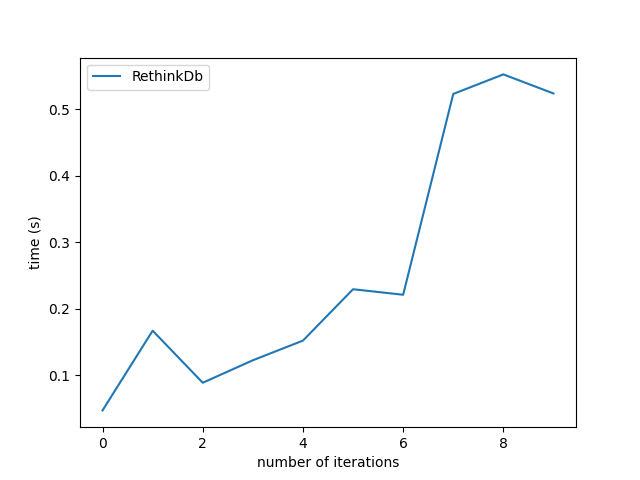
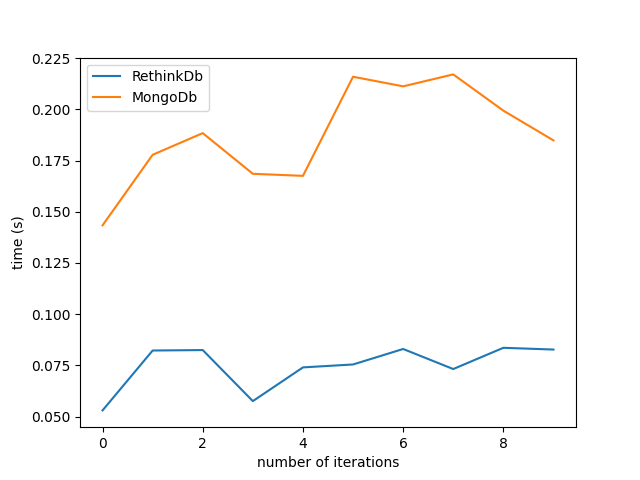
add copy table tests for mongo

diff --git a/efficiency-tests/main.py b/efficiency-tests/main.py
@@ -35,7 +35,7 @@ def get_average_time(data_series: list):
 if __name__ == '__main__':
 
     iterations_num = 100
-    tests = [('search_row_by_value_10_times', True)]
+    tests = [('copy_table', True)]
     # [('inserts', True), ('read_write', True), ('sorting', True), ('join_table', True),
     # ('search_row_by_id_10_times', True), ('search_row_by_value_10_times', True), ('copy_table', True)]
 
@@ -46,6 +46,10 @@ if __name__ == '__main__':
     # search_row_by_value_10_times for iterations_num = 100
     # MongoDb average operation time: 0.00012311697006225586
     # RethinkDb average operation time: 0.00018972158432006836
+
+    # copy_table for iterations_num = 100
+    # MongoDb average operation time: 0.018484854698181154
+    # RethinkDb average operation time: 0.007321906089782715
 
     for test_name, recreate_collection in tests:
         test_func_name = f'test_{test_name}_efficiency'

diff --git a/efficiency-tests/mongodb_test.py b/efficiency-tests/mongodb_test.py
@@ -137,5 +137,26 @@ class MongoTest:
 
         print('test finished')
 
+    def test_copy_table_efficiency(self, iterations_num: int):
+        idx = 0
+        mod = iterations_num / min(10, iterations_num)
+
+        self.db.table_to_copy.drop()
+        self.db.source.drop()
+
+        print('test started')
+
+        while idx < iterations_num:
+            self.db.source.insert_one({'value': idx})
+            if idx % mod == 0:
+                start = time.time()
+                self.db.table_to_copy.insert_many(self.db.source.find())
+                end = time.time()
+                self.db.copy_table.insert_one({'id': idx, 'time': end - start})
+                self.db.table_to_copy.drop()
+            idx += 1
+
+        print('test finished')
+
     def get_results(self, schema: str) -> list:
         return list(self.db[schema].find())
